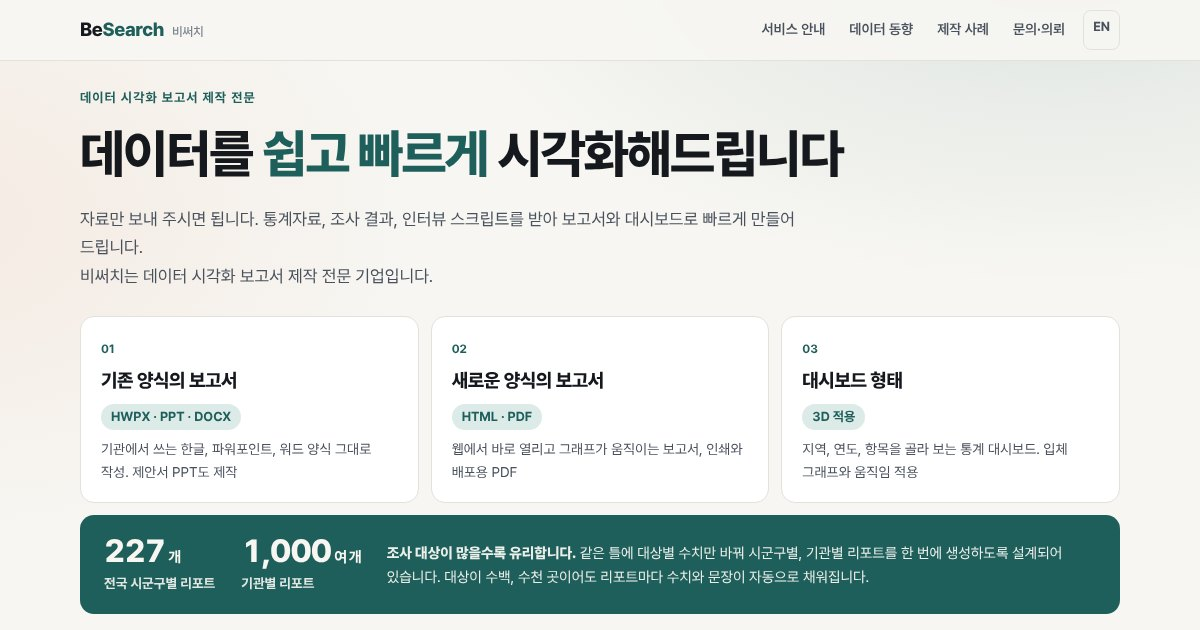
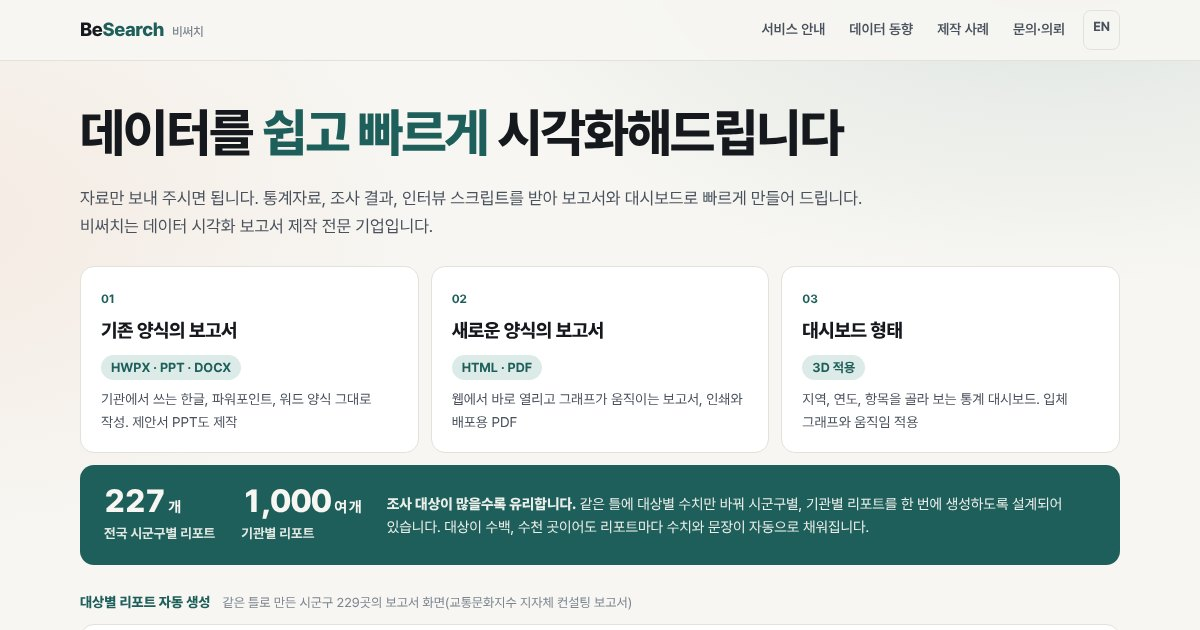
첫 화면 머리 문구 삭제, 소개 첫 문장을 한 줄로 조정
Claude-Session: https://claude.ai/code/session_01KSbG1FWzM5tJqa3JmCj8ps

Changed region(s): [[0.0617, 0.5127, 0.9558, 0.9952], [0.0617, 0.1206, 0.7092, 0.4524], [0.37, 0.4524, 0.4008, 0.4825]]

diff --git a/index.html b/index.html
@@ -187,6 +187,8 @@ main>section .sub,.page>.sub{font-size:17px;margin-bottom:34px}
 .sv h3,.svh h3{letter-spacing:-.02em}
 @media (max-width:820px){main>section{padding:52px 0}main>section .sub,.page>.sub{font-size:15.5px;margin-bottom:24px}}
 @media (max-width:560px){header .in{height:auto;flex-wrap:wrap;padding-top:10px;padding-bottom:6px;gap:2px}nav{width:100%;justify-content:space-between}nav a{padding:7px 4px;font-size:13.5px}.lang{margin-left:0}}
+.hero p.lead1{max-width:none}
+@media (min-width:1040px){.hero p.lead1 span{white-space:nowrap}}
 #tip{position:fixed;z-index:50;pointer-events:none;background:var(--ink);color:var(--bg);font-size:12.5px;font-weight:600;padding:6px 10px;border-radius:7px;opacity:0;transition:opacity .1s;white-space:nowrap}
 
 @media (max-width:1000px){.svc{grid-template-columns:1fr 1fr}}
@@ -342,9 +344,8 @@ a.shot:hover{border-color:var(--acc)}
 
 <main id="top">
 <div class="in hero">
-  <div class="eyebrow">데이터 시각화 보고서 제작 전문</div>
   <h1><span>데이터를 <em>쉽고 빠르게</em></span> <span>시각화해드립니다</span></h1>
-  <p>자료만 보내 주시면 됩니다. 통계자료, 조사 결과, 인터뷰 스크립트를 받아 보고서와 대시보드로 빠르게 만들어 드립니다.<br>비써치는 데이터 시각화 보고서 제작 전문 기업입니다.</p>
+  <p class="lead1"><span>자료만 보내 주시면 됩니다. 통계자료, 조사 결과, 인터뷰 스크립트를 받아 보고서와 대시보드로 빠르게 만들어 드립니다.</span><br>비써치는 데이터 시각화 보고서 제작 전문 기업입니다.</p>
   <div class="pil">
     <div><span>01</span><b>기존 양식의 보고서</b><em>HWPX · PPT · DOCX</em><p>기관에서 쓰는 한글, 파워포인트, 워드 양식 그대로 작성. 제안서 PPT도 제작</p></div>
     <div><span>02</span><b>새로운 양식의 보고서</b><em>HTML · PDF</em><p>웹에서 바로 열리고 그래프가 움직이는 보고서, 인쇄와 배포용 PDF</p></div>

diff --git a/template.html b/template.html
@@ -187,6 +187,8 @@ main>section .sub,.page>.sub{font-size:17px;margin-bottom:34px}
 .sv h3,.svh h3{letter-spacing:-.02em}
 @media (max-width:820px){main>section{padding:52px 0}main>section .sub,.page>.sub{font-size:15.5px;margin-bottom:24px}}
 @media (max-width:560px){header .in{height:auto;flex-wrap:wrap;padding-top:10px;padding-bottom:6px;gap:2px}nav{width:100%;justify-content:space-between}nav a{padding:7px 4px;font-size:13.5px}.lang{margin-left:0}}
+.hero p.lead1{max-width:none}
+@media (min-width:1040px){.hero p.lead1 span{white-space:nowrap}}
 #tip{position:fixed;z-index:50;pointer-events:none;background:var(--ink);color:var(--bg);font-size:12.5px;font-weight:600;padding:6px 10px;border-radius:7px;opacity:0;transition:opacity .1s;white-space:nowrap}
 
 @media (max-width:1000px){.svc{grid-template-columns:1fr 1fr}}
@@ -342,9 +344,8 @@ a.shot:hover{border-color:var(--acc)}
 
 <main id="top">
 <div class="in hero">
-  <div class="eyebrow">데이터 시각화 보고서 제작 전문</div>
   <h1><span>데이터를 <em>쉽고 빠르게</em></span> <span>시각화해드립니다</span></h1>
-  <p>자료만 보내 주시면 됩니다. 통계자료, 조사 결과, 인터뷰 스크립트를 받아 보고서와 대시보드로 빠르게 만들어 드립니다.<br>비써치는 데이터 시각화 보고서 제작 전문 기업입니다.</p>
+  <p class="lead1"><span>자료만 보내 주시면 됩니다. 통계자료, 조사 결과, 인터뷰 스크립트를 받아 보고서와 대시보드로 빠르게 만들어 드립니다.</span><br>비써치는 데이터 시각화 보고서 제작 전문 기업입니다.</p>
   <div class="pil">
     <div><span>01</span><b>기존 양식의 보고서</b><em>HWPX · PPT · DOCX</em><p>기관에서 쓰는 한글, 파워포인트, 워드 양식 그대로 작성. 제안서 PPT도 제작</p></div>
     <div><span>02</span><b>새로운 양식의 보고서</b><em>HTML · PDF</em><p>웹에서 바로 열리고 그래프가 움직이는 보고서, 인쇄와 배포용 PDF</p></div>

diff --git a/en/index.html b/en/index.html
@@ -187,6 +187,8 @@ main>section .sub,.page>.sub{font-size:17px;margin-bottom:34px}
 .sv h3,.svh h3{letter-spacing:-.02em}
 @media (max-width:820px){main>section{padding:52px 0}main>section .sub,.page>.sub{font-size:15.5px;margin-bottom:24px}}
 @media (max-width:560px){header .in{height:auto;flex-wrap:wrap;padding-top:10px;padding-bottom:6px;gap:2px}nav{width:100%;justify-content:space-between}nav a{padding:7px 4px;font-size:13.5px}.lang{margin-left:0}}
+.hero p.lead1{max-width:none}
+@media (min-width:1040px){.hero p.lead1 span{white-space:nowrap}}
 #tip{position:fixed;z-index:50;pointer-events:none;background:var(--ink);color:var(--bg);font-size:12.5px;font-weight:600;padding:6px 10px;border-radius:7px;opacity:0;transition:opacity .1s;white-space:nowrap}
 
 @media (max-width:1000px){.svc{grid-template-columns:1fr 1fr}}
@@ -343,9 +345,8 @@ a.shot:hover{border-color:var(--acc)}
 
 <main id="top">
 <div class="in hero">
-  <div class="eyebrow">Data visualization reports</div>
   <h1><span>We visualize your data,</span> <span><em>simply and fast</em></span></h1>
-  <p>Just send us your material. We turn statistics, survey results and interview transcripts into reports and dashboards, quickly.<br>BeSearch is a Korean studio that specializes in data visualization reports.</p>
+  <p class="lead1"><span>Just send us your material. We turn statistics, survey results and interview transcripts into reports and dashboards, quickly.</span><br>BeSearch is a Korean studio that specializes in data visualization reports.</p>
   <div class="pil">
     <div><span>01</span><b>Reports in familiar formats</b><em>HWPX · PPT · DOCX</em><p>Written in the formats your organization already uses: Hangul (HWPX), PowerPoint and Word. Proposal decks too.</p></div>
     <div><span>02</span><b>Reports in new formats</b><em>HTML · PDF</em><p>Reports that open in a browser with interactive charts, plus PDF for print and distribution.</p></div>

diff --git a/contact.html b/contact.html
@@ -187,6 +187,8 @@ main>section .sub,.page>.sub{font-size:17px;margin-bottom:34px}
 .sv h3,.svh h3{letter-spacing:-.02em}
 @media (max-width:820px){main>section{padding:52px 0}main>section .sub,.page>.sub{font-size:15.5px;margin-bottom:24px}}
 @media (max-width:560px){header .in{height:auto;flex-wrap:wrap;padding-top:10px;padding-bottom:6px;gap:2px}nav{width:100%;justify-content:space-between}nav a{padding:7px 4px;font-size:13.5px}.lang{margin-left:0}}
+.hero p.lead1{max-width:none}
+@media (min-width:1040px){.hero p.lead1 span{white-space:nowrap}}
 #tip{position:fixed;z-index:50;pointer-events:none;background:var(--ink);color:var(--bg);font-size:12.5px;font-weight:600;padding:6px 10px;border-radius:7px;opacity:0;transition:opacity .1s;white-space:nowrap}
 
 @media (max-width:1000px){.svc{grid-template-columns:1fr 1fr}}

diff --git a/daily.html b/daily.html
@@ -187,6 +187,8 @@ main>section .sub,.page>.sub{font-size:17px;margin-bottom:34px}
 .sv h3,.svh h3{letter-spacing:-.02em}
 @media (max-width:820px){main>section{padding:52px 0}main>section .sub,.page>.sub{font-size:15.5px;margin-bottom:24px}}
 @media (max-width:560px){header .in{height:auto;flex-wrap:wrap;padding-top:10px;padding-bottom:6px;gap:2px}nav{width:100%;justify-content:space-between}nav a{padding:7px 4px;font-size:13.5px}.lang{margin-left:0}}
+.hero p.lead1{max-width:none}
+@media (min-width:1040px){.hero p.lead1 span{white-space:nowrap}}
 #tip{position:fixed;z-index:50;pointer-events:none;background:var(--ink);color:var(--bg);font-size:12.5px;font-weight:600;padding:6px 10px;border-radius:7px;opacity:0;transition:opacity .1s;white-space:nowrap}
 
 @media (max-width:1000px){.svc{grid-template-columns:1fr 1fr}}

diff --git a/en/contact.html b/en/contact.html
@@ -187,6 +187,8 @@ main>section .sub,.page>.sub{font-size:17px;margin-bottom:34px}
 .sv h3,.svh h3{letter-spacing:-.02em}
 @media (max-width:820px){main>section{padding:52px 0}main>section .sub,.page>.sub{font-size:15.5px;margin-bottom:24px}}
 @media (max-width:560px){header .in{height:auto;flex-wrap:wrap;padding-top:10px;padding-bottom:6px;gap:2px}nav{width:100%;justify-content:space-between}nav a{padding:7px 4px;font-size:13.5px}.lang{margin-left:0}}
+.hero p.lead1{max-width:none}
+@media (min-width:1040px){.hero p.lead1 span{white-space:nowrap}}
 #tip{position:fixed;z-index:50;pointer-events:none;background:var(--ink);color:var(--bg);font-size:12.5px;font-weight:600;padding:6px 10px;border-radius:7px;opacity:0;transition:opacity .1s;white-space:nowrap}
 
 @media (max-width:1000px){.svc{grid-template-columns:1fr 1fr}}

diff --git a/examples.html b/examples.html
@@ -187,6 +187,8 @@ main>section .sub,.page>.sub{font-size:17px;margin-bottom:34px}
 .sv h3,.svh h3{letter-spacing:-.02em}
 @media (max-width:820px){main>section{padding:52px 0}main>section .sub,.page>.sub{font-size:15.5px;margin-bottom:24px}}
 @media (max-width:560px){header .in{height:auto;flex-wrap:wrap;padding-top:10px;padding-bottom:6px;gap:2px}nav{width:100%;justify-content:space-between}nav a{padding:7px 4px;font-size:13.5px}.lang{margin-left:0}}
+.hero p.lead1{max-width:none}
+@media (min-width:1040px){.hero p.lead1 span{white-space:nowrap}}
 #tip{position:fixed;z-index:50;pointer-events:none;background:var(--ink);color:var(--bg);font-size:12.5px;font-weight:600;padding:6px 10px;border-radius:7px;opacity:0;transition:opacity .1s;white-space:nowrap}
 
 @media (max-width:1000px){.svc{grid-template-columns:1fr 1fr}}

diff --git a/privacy.html b/privacy.html
@@ -187,6 +187,8 @@ main>section .sub,.page>.sub{font-size:17px;margin-bottom:34px}
 .sv h3,.svh h3{letter-spacing:-.02em}
 @media (max-width:820px){main>section{padding:52px 0}main>section .sub,.page>.sub{font-size:15.5px;margin-bottom:24px}}
 @media (max-width:560px){header .in{height:auto;flex-wrap:wrap;padding-top:10px;padding-bottom:6px;gap:2px}nav{width:100%;justify-content:space-between}nav a{padding:7px 4px;font-size:13.5px}.lang{margin-left:0}}
+.hero p.lead1{max-width:none}
+@media (min-width:1040px){.hero p.lead1 span{white-space:nowrap}}
 #tip{position:fixed;z-index:50;pointer-events:none;background:var(--ink);color:var(--bg);font-size:12.5px;font-weight:600;padding:6px 10px;border-radius:7px;opacity:0;transition:opacity .1s;white-space:nowrap}
 
 @media (max-width:1000px){.svc{grid-template-columns:1fr 1fr}}

diff --git a/terms.html b/terms.html
@@ -187,6 +187,8 @@ main>section .sub,.page>.sub{font-size:17px;margin-bottom:34px}
 .sv h3,.svh h3{letter-spacing:-.02em}
 @media (max-width:820px){main>section{padding:52px 0}main>section .sub,.page>.sub{font-size:15.5px;margin-bottom:24px}}
 @media (max-width:560px){header .in{height:auto;flex-wrap:wrap;padding-top:10px;padding-bottom:6px;gap:2px}nav{width:100%;justify-content:space-between}nav a{padding:7px 4px;font-size:13.5px}.lang{margin-left:0}}
+.hero p.lead1{max-width:none}
+@media (min-width:1040px){.hero p.lead1 span{white-space:nowrap}}
 #tip{position:fixed;z-index:50;pointer-events:none;background:var(--ink);color:var(--bg);font-size:12.5px;font-weight:600;padding:6px 10px;border-radius:7px;opacity:0;transition:opacity .1s;white-space:nowrap}
 
 @media (max-width:1000px){.svc{grid-template-columns:1fr 1fr}}

diff --git a/build_en.py b/build_en.py
@@ -29,8 +29,8 @@ T = {
  # 첫 화면
  '데이터 시각화 보고서 제작 전문': 'Data visualization reports',
  '<h1><span>데이터를 <em>쉽고 빠르게</em></span> <span>시각화해드립니다</span></h1>': '<h1><span>We visualize your data,</span> <span><em>simply and fast</em></span></h1>',
- '<p>자료만 보내 주시면 됩니다. 통계자료, 조사 결과, 인터뷰 스크립트를 받아 보고서와 대시보드로 빠르게 만들어 드립니다.<br>비써치는 데이터 시각화 보고서 제작 전문 기업입니다.</p>':
-   '<p>Just send us your material. We turn statistics, survey results and interview transcripts into reports and dashboards, quickly.<br>BeSearch is a Korean studio that specializes in data visualization reports.</p>',
+ '<p class="lead1"><span>자료만 보내 주시면 됩니다. 통계자료, 조사 결과, 인터뷰 스크립트를 받아 보고서와 대시보드로 빠르게 만들어 드립니다.</span><br>비써치는 데이터 시각화 보고서 제작 전문 기업입니다.</p>':
+   '<p class="lead1"><span>Just send us your material. We turn statistics, survey results and interview transcripts into reports and dashboards, quickly.</span><br>BeSearch is a Korean studio that specializes in data visualization reports.</p>',
  '기존 양식의 보고서': 'Reports in familiar formats',
  '기관에서 쓰는 한글, 파워포인트, 워드 양식 그대로 작성. 제안서 PPT도 제작': 'Written in the formats your organization already uses: Hangul (HWPX), PowerPoint and Word. Proposal decks too.',
  '새로운 양식의 보고서': 'Reports in new formats',
